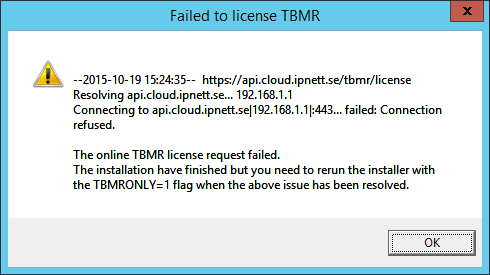
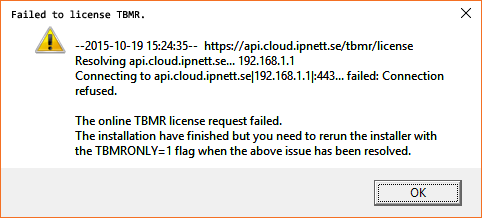
New Windows installer, new styling.

diff --git a/content/backup/install/windows.md b/content/backup/install/windows.md
@@ -9,7 +9,7 @@ Any user with administrative permissions can then install the services on their 
 The second mode includes the process of creating a new node and therefore requires API credentials and more settings. It is recommended to use credentials with limited numbers nodes and not your fully administrative credentials.
 If credentials with unlimited permissions is used it is advised to delete all files in Windows `%TEMP%` directory after installation or failure to install since it may disclose secrets.
 The installer makes it best to remove them but in some scenarios they might be left behind.
-To see options and rules to run simply run `"safespring-baas.2.3.4.exe -help"`. All installer parameters must be in CAPITAL letters. Flags can be in lower case.
+To see options and rules to run simply run `"safespring-baas.2.3.5.exe -help"`. All installer parameters must be in CAPITAL letters. Flags can be in lower case.
 
 ![help](../../images/help.png)
 
@@ -17,11 +17,12 @@ To see options and rules to run simply run `"safespring-baas.2.3.4.exe -help"`. 
     **The installation process may take up to 25 minutes to complete. Especially "TBMR Installation" may take quite a long time.**  
 
 ## Download  
-For Windows 8.1, 10, 2012 and 2016 please use this installer, [https://api.cloud.ipnett.se/dist/installer/safespring-baas.2.3.4.exe](https://api.cloud.ipnett.se/dist/installer/safespring-baas.2.3.4.exe). 
+For Windows 8.1, 10, 2012 and 2016 please use this installer,
+[https://api.cloud.ipnett.se/dist/installer/safespring-baas.2.3.5.exe](https://api.cloud.ipnett.se/dist/installer/safespring-baas.2.3.5.exe). 
 
 For older Windows versions please use this installer, [https://api.cloud.ipnett.se/dist/installer/safespring-baas.2.2.1.exe](https://api.cloud.ipnett.se/dist/installer/ipnett-baas.2.2.1.exe). 
 
-md5: 0182665fbf6caf4e3ba145db4b2fe3c2 safespring-baas.2.3.4.exe  
+md5: de9c4820f4f10c70a42cefc79d114c35 safespring-baas.2.3.5.exe  
 md5: 9d019492bdb3cb80e8a19a6f45933b00 ipnett-baas.2.2.1.exe
 
 Latest URL is `https://api.cloud.ipnett.se/dist/installer/latest-win`
@@ -40,7 +41,7 @@ To run in mode 1, place the installer and the `dsm-nodename.zip` in the same dir
 **Example:**
 
 !!! note ""
-    `safespring-baas.2.3.4.exe PASS=<password> (-passive | -silent)`
+    `safespring-baas.2.3.5.exe PASS=<password> (-passive | -silent)`
 
 The installer can be run in either manually, passive or silent mode. Passive shows the GUI and progress and silent runs without output in background. `PASS` is the node's current password.
 
@@ -70,12 +71,12 @@ Mode two requires a few more parameters in order to create the node. `TOKEN` is 
 For updates when already running UPDATE=1 can be used. It is not possible to downgrade.
 To rerun the TBMR part only and because of TBMR license failures you can run with TBMRONLY=1.
 
-Put the safespring-baas.2.3.4.exe in a directory where you have write permissions since it will write the `dsm-<nodename>.zip` file in the current directory.
+Put the safespring-baas.2.3.5.exe in a directory where you have write permissions since it will write the `dsm-<nodename>.zip` file in the current directory.
 
 **Example:**
 
 !!! note ""
-    `safespring-baas.2.3.4.exe TOKEN=<secrettoken> FQDN=<uniquename> MAIL=<mailaddress> COST=<costcenter> (-silent | -passive)`  
+    `safespring-baas.2.3.5.exe TOKEN=<secrettoken> FQDN=<uniquename> MAIL=<mailaddress> COST=<costcenter> (-silent | -passive)`  
 
 The installer can be run in either manually, passive or silent mode. Passive shows the GUI and progress and silent runs without output in background.  
 
@@ -87,8 +88,12 @@ The installer can be run in either manually, passive or silent mode. Passive sho
     All possible measures have been taken to prevent reboot but runtime libraries can cause unpredictable results. To add extra safety measures an additional flag can be used, `-norestart`. 
 
 ## Updates
-The installation can be updated and completed with both new TSM and TBMR version if the installer is run with the UPDATE argument. `safespring-baas.2.3.4.exe UPDATE=1`.
-Then the same nodename and configuration is kept and all components is updated if required. If only TBMR should be installed or updated it can be run with the TBMRONLY argument. `safespring-baas.2.3.4.exe TBMRONLY=1`. This method can also be used to license TBMR if it is trial or unlicensed for some reason.
+The installation can be updated and completed with both new TSM and TBMR
+version if the installer is run with the UPDATE argument.
+`safespring-baas.2.3.5.exe UPDATE=1`.
+Then the same nodename and configuration is kept and all components is updated
+if required. If only TBMR should be installed or updated it can be run with the
+TBMRONLY argument. `safespring-baas.2.3.5.exe TBMRONLY=1`. This method can also be used to license TBMR if it is trial or unlicensed for some reason.
 
 ## Revision history
 * **1.0** Initial version for Windows 8, 8.1 and 2012.
@@ -156,10 +161,14 @@ Then the same nodename and configuration is kept and all components is updated i
 * **2.3.3**
     * New TSM x32 version, 7.1.6.5. 
     * New TSM x64 version, 8.1.0.2.
- 
 * **2.3.4**
     * Bugfix for Mode 1 installations where TSM was used before.
     * New TBMR version, 8.1.3.   
+* **2.3.5**
+    * New TSM x64 version, 8.1.2.0.
+    * New TBMR version, 8.1.4.
+    * Cosmetic changes.
+    * Added some more errorchecking on TBMR result code. See Pitfalls below.
 
 ## Pitfalls
 
@@ -171,6 +180,9 @@ Then the same nodename and configuration is kept and all components is updated i
 ![dsm.opt Dialogue](../../images/dsm.opt.png)
 * If the licensing of TBMR fails you can be asked to rerun the installer again with TBMRONLY=1.  
 ![License fail dialogue](../../images/TBMRfail.png)
+* If TBMR fails to find mandatory files you may need to run SFC to check your
+system files.
+![License fail dialogue](../../images/tbmr_snapshot_fail.png)
 
 ## Report problems
 In case of reporting a problem please include ALL logfiles from %TEMP% named Safespring*.*, BaaS*.* and Cristie*.*.
